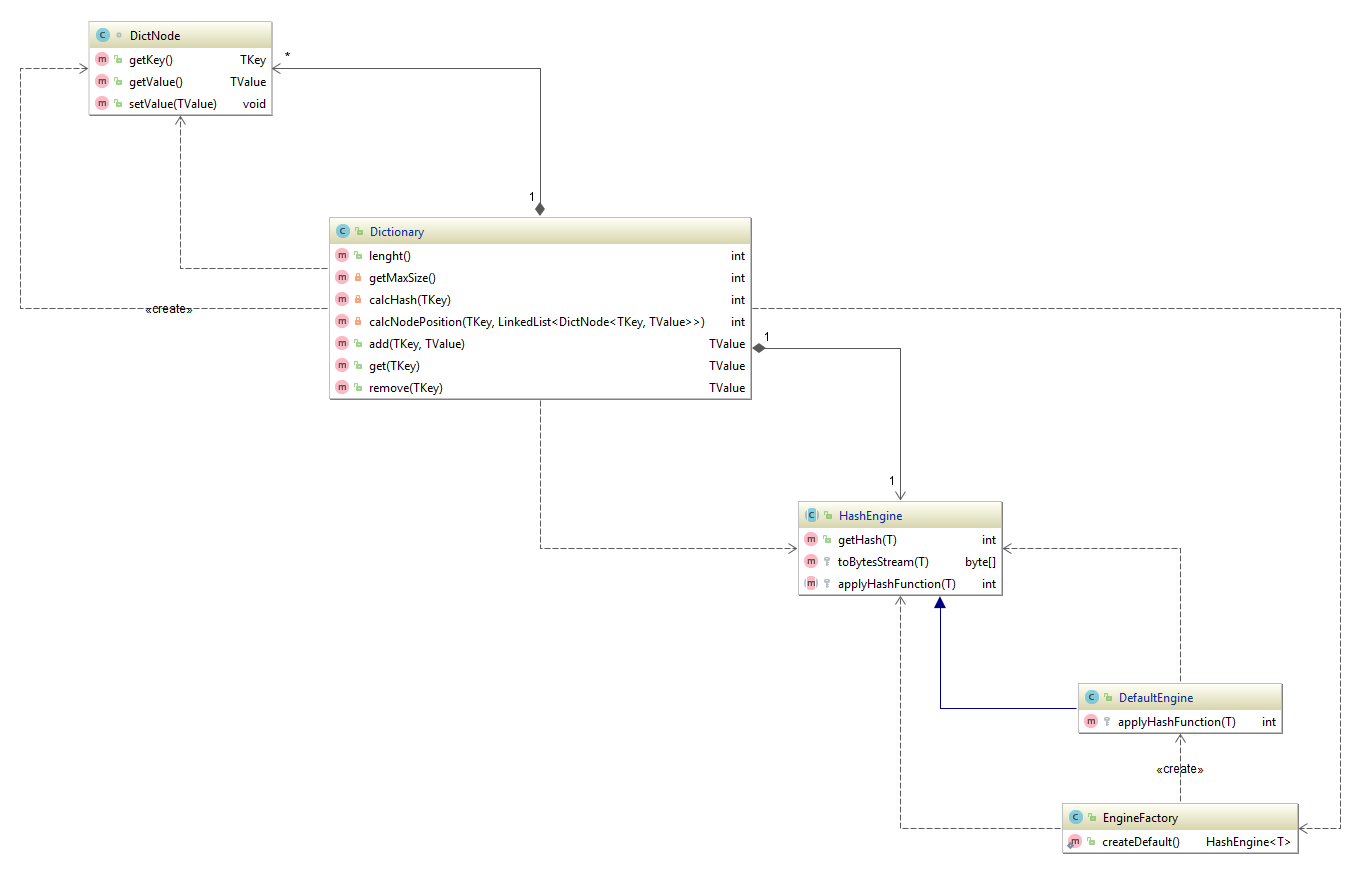
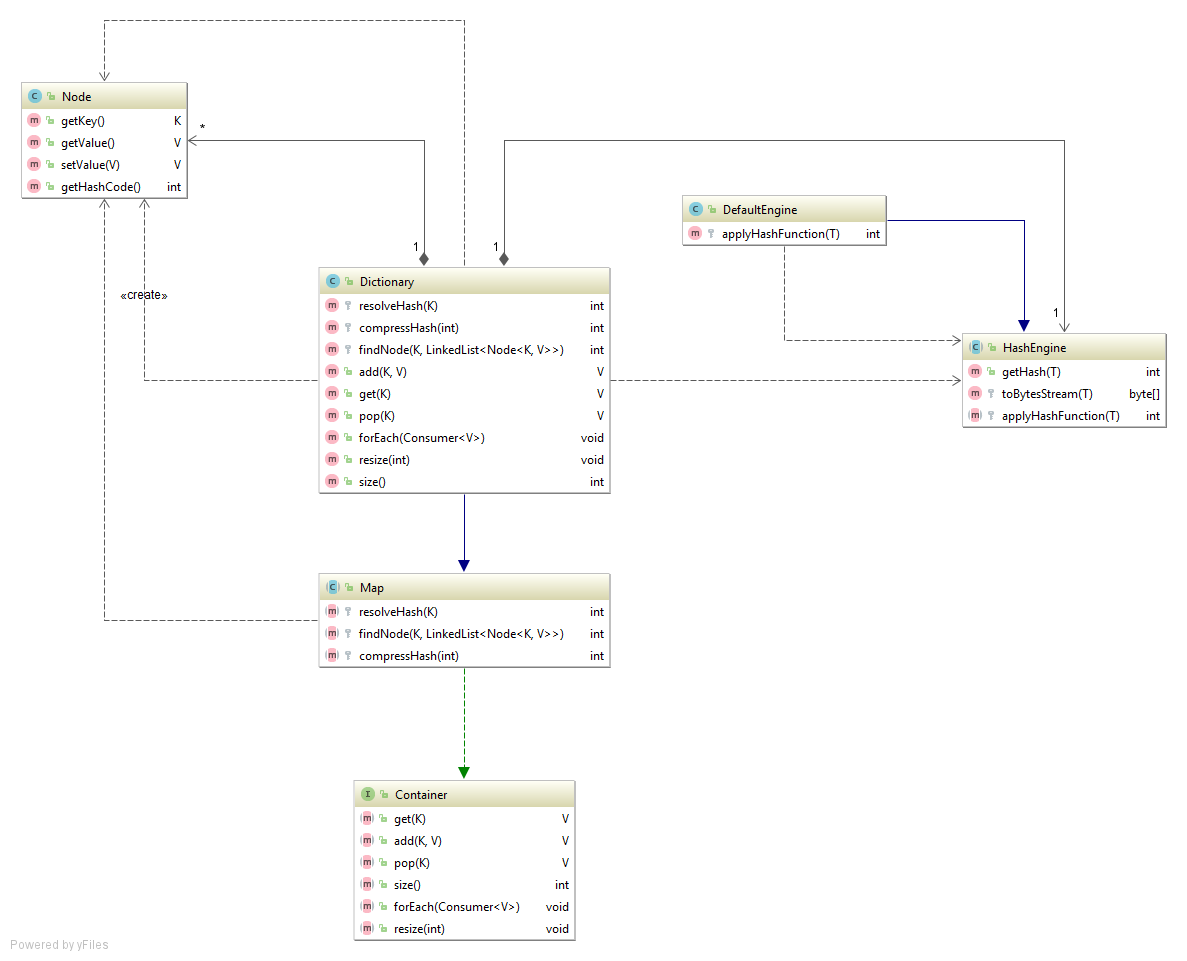
Removidos arquivos duplicados

diff --git a/src/main/java/dictionary/Dictionary.java b/src/main/java/dictionary/Dictionary.java
@@ -16,10 +16,14 @@ import java.util.function.Consumer;
  * @param <V> Tipo do objeto valor
  */
 public class Dictionary<K, V> extends Map<K, V> {
-    private LinkedList<Node<K, V>>[] listArrays;
+    protected static int DEFAULT_RESIZE_FACTOR = 2;
+    protected static double DEFAULT_RESIZE_THRESHOLD = 0.75;
+    protected static int DEFAULT_LIST_SIZE_THRESHOLD = 2;
+
+    private LinkedList<Node<K, V>>[] listsArray;
     private HashEngine<K> hashEngine;
     private int currentSize;
-    private int maxSize;
+    private int internalArraySize;
 
     /**
      * Inicializa um novo dicionário especificando o tamanho inicial do vetor e a {@link HashEngine} a ser utilizada.
@@ -27,15 +31,9 @@ public class Dictionary<K, V> extends Map<K, V> {
      * @param size   Tamanho inicial do vetor
      * @param engine HashEngine a ser utilizada
      */
-    @SuppressWarnings("unchecked")
     public Dictionary(int size, HashEngine<K> engine) {
-        listArrays = new LinkedList[size];
+        initialize(size);
         hashEngine = engine;
-        maxSize = size;
-        currentSize = 0;
-
-        for (int i = 0; i < listArrays.length; i++)
-            listArrays[i] = new LinkedList<>();
     }
 
     /**
@@ -43,15 +41,19 @@ public class Dictionary<K, V> extends Map<K, V> {
      *
      * @param size Tamanho inicial do vetor.
      */
-    @SuppressWarnings("unchecked")
     public Dictionary(int size) {
-        listArrays = new LinkedList[size];
+        initialize(size);
         hashEngine = EngineFactory.createDefault();
-        maxSize = size;
-        currentSize = 0;
+    }
 
-        for (int i = 0; i < listArrays.length; i++)
-            listArrays[i] = new LinkedList<>();
+    @SuppressWarnings("unchecked")
+    private void initialize(int size) {
+        listsArray = new LinkedList[size];
+        for (int i = 0; i < listsArray.length; i++)
+            listsArray[i] = new LinkedList<>();
+
+        internalArraySize = size;
+        currentSize = 0;
     }
 
     protected int resolveHash(K key) {
@@ -59,7 +61,7 @@ public class Dictionary<K, V> extends Map<K, V> {
     }
 
     protected synchronized int compressHash(int hashCode) {
-        return hashCode % maxSize;
+        return hashCode % internalArraySize;
     }
 
     protected synchronized int findNode(K key, LinkedList<Node<K, V>> linkedList) {
@@ -71,19 +73,21 @@ public class Dictionary<K, V> extends Map<K, V> {
     }
 
     public synchronized V add(K key, V value) {
+        if (currentSize / (internalArraySize * DEFAULT_LIST_SIZE_THRESHOLD) >= DEFAULT_RESIZE_THRESHOLD)
+            resize(internalArraySize * DEFAULT_RESIZE_FACTOR);
+
         int hashCode = resolveHash(key);
         int compressedHash = compressHash(hashCode);
-        int nodePosition = findNode(key, listArrays[compressedHash]);
-
+        int nodePosition = findNode(key, listsArray[compressedHash]);
         Node<K, V> temporaryNode;
 
-        if (nodePosition != -1) {
-            temporaryNode = listArrays[compressedHash].get(nodePosition);
-            temporaryNode.setValue(value);
-        } else {
-            temporaryNode = new DictNode<>(key, value, hashCode);
-            listArrays[compressedHash].add(temporaryNode);
+        if (nodePosition == -1) {
+            temporaryNode = new Node<>(key, value, hashCode);
+            listsArray[compressedHash].add(temporaryNode);
             currentSize++;
+        } else {
+            temporaryNode = listsArray[compressedHash].get(nodePosition);
+            temporaryNode.setValue(value);
         }
 
         return temporaryNode.getValue();
@@ -91,19 +95,19 @@ public class Dictionary<K, V> extends Map<K, V> {
 
     public synchronized V get(K key) {
         int hashPos = compressHash(resolveHash(key));
-        int nodePosition = findNode(key, listArrays[hashPos]);
-        return nodePosition != -1 ? listArrays[hashPos].get(nodePosition).getValue() : null;
+        int nodePosition = findNode(key, listsArray[hashPos]);
+        return nodePosition != -1 ? listsArray[hashPos].get(nodePosition).getValue() : null;
     }
 
     public synchronized V pop(K key) {
         int hashPos = compressHash(resolveHash(key));
-        int nodePosition = findNode(key, listArrays[hashPos]);
+        int nodePosition = findNode(key, listsArray[hashPos]);
 
         V nodeValue = null;
 
         if (nodePosition != -1) {
-            nodeValue = listArrays[hashPos].get(nodePosition).getValue();
-            listArrays[hashPos].remove(nodePosition);
+            nodeValue = listsArray[hashPos].get(nodePosition).getValue();
+            listsArray[hashPos].remove(nodePosition);
             currentSize--;
         }
 
@@ -111,7 +115,7 @@ public class Dictionary<K, V> extends Map<K, V> {
     }
 
     public synchronized void forEach(Consumer<V> consumer) {
-        for (LinkedList<Node<K, V>> array : listArrays)
+        for (LinkedList<Node<K, V>> array : listsArray)
             for (Node<K, V> node : array)
                 consumer.accept(node.getValue());
     }
@@ -121,12 +125,12 @@ public class Dictionary<K, V> extends Map<K, V> {
         for (int i = 0; i < newArray.length; i++)
             newArray[i] = new LinkedList<Node<K, V>>();
 
-        for (LinkedList<Node<K, V>> array : listArrays)
+        for (LinkedList<Node<K, V>> array : listsArray)
             for (Node<K, V> node : array)
                 newArray[(node.getHashCode()) % newSize].add(node);
 
-        maxSize = newSize;
-        listArrays = newArray;
+        internalArraySize = newSize;
+        listsArray = newArray;
     }
 
     public synchronized int size() {

diff --git a/src/main/java/dictionary/structures/Node.java b/src/main/java/dictionary/structures/Node.java
@@ -1,11 +1,31 @@
 package dictionary.structures;
 
-public interface Node<K, V> {
-    K getKey();
 
-    V getValue();
+public class Node<K, V> {
+    private K key;
+    private V value;
+    private int hashCode;
 
-    V setValue(V value);
+    public Node(K key, V value, int hashCode) {
+        this.key = key;
+        this.value = value;
+        this.hashCode = hashCode;
+    }
 
-    int getHashCode();
+    public K getKey() {
+        return key;
+    }
+
+    public V getValue() {
+        return value;
+    }
+
+    public V setValue(V value) {
+        this.value = value;
+        return this.value;
+    }
+
+    public int getHashCode() {
+        return hashCode;
+    }
 }

diff --git a/src/test/java/DictionaryTest.java b/src/test/java/DictionaryTest.java
@@ -2,8 +2,6 @@ import dictionary.Dictionary;
 import dictionary.engine.DefaultEngine;
 import org.junit.Test;
 
-import java.io.IOException;
-import java.util.Collections;
 import java.util.concurrent.atomic.AtomicReference;
 
 import static org.junit.Assert.assertEquals;
